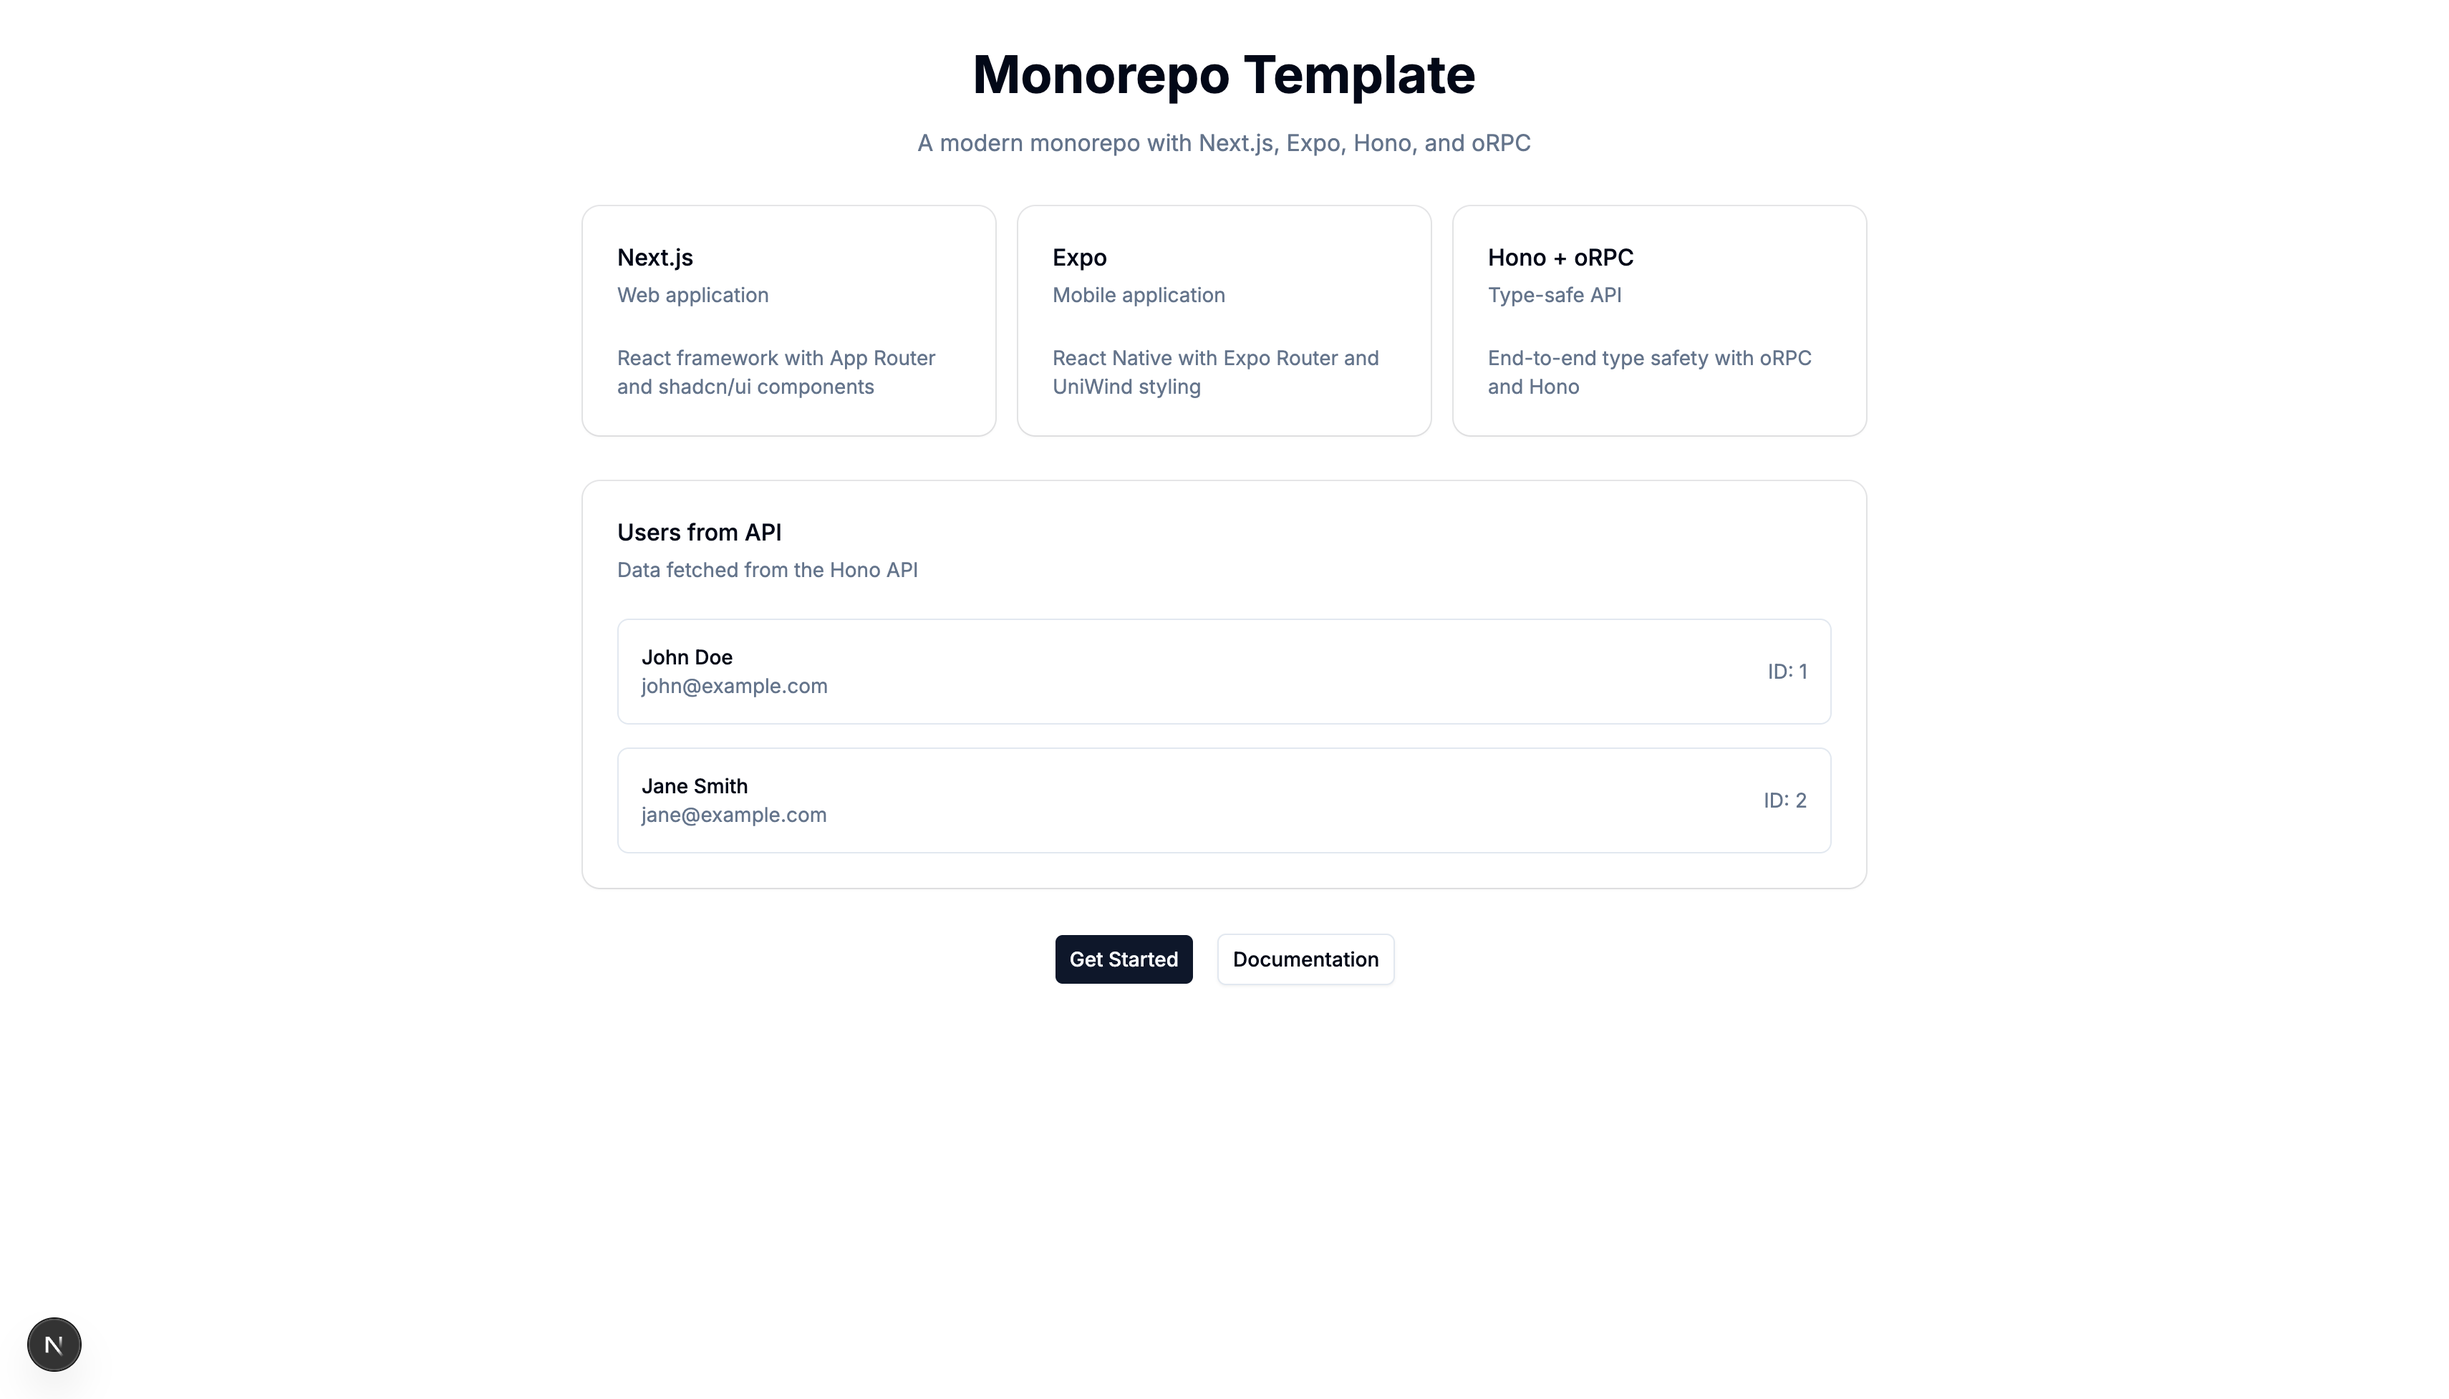
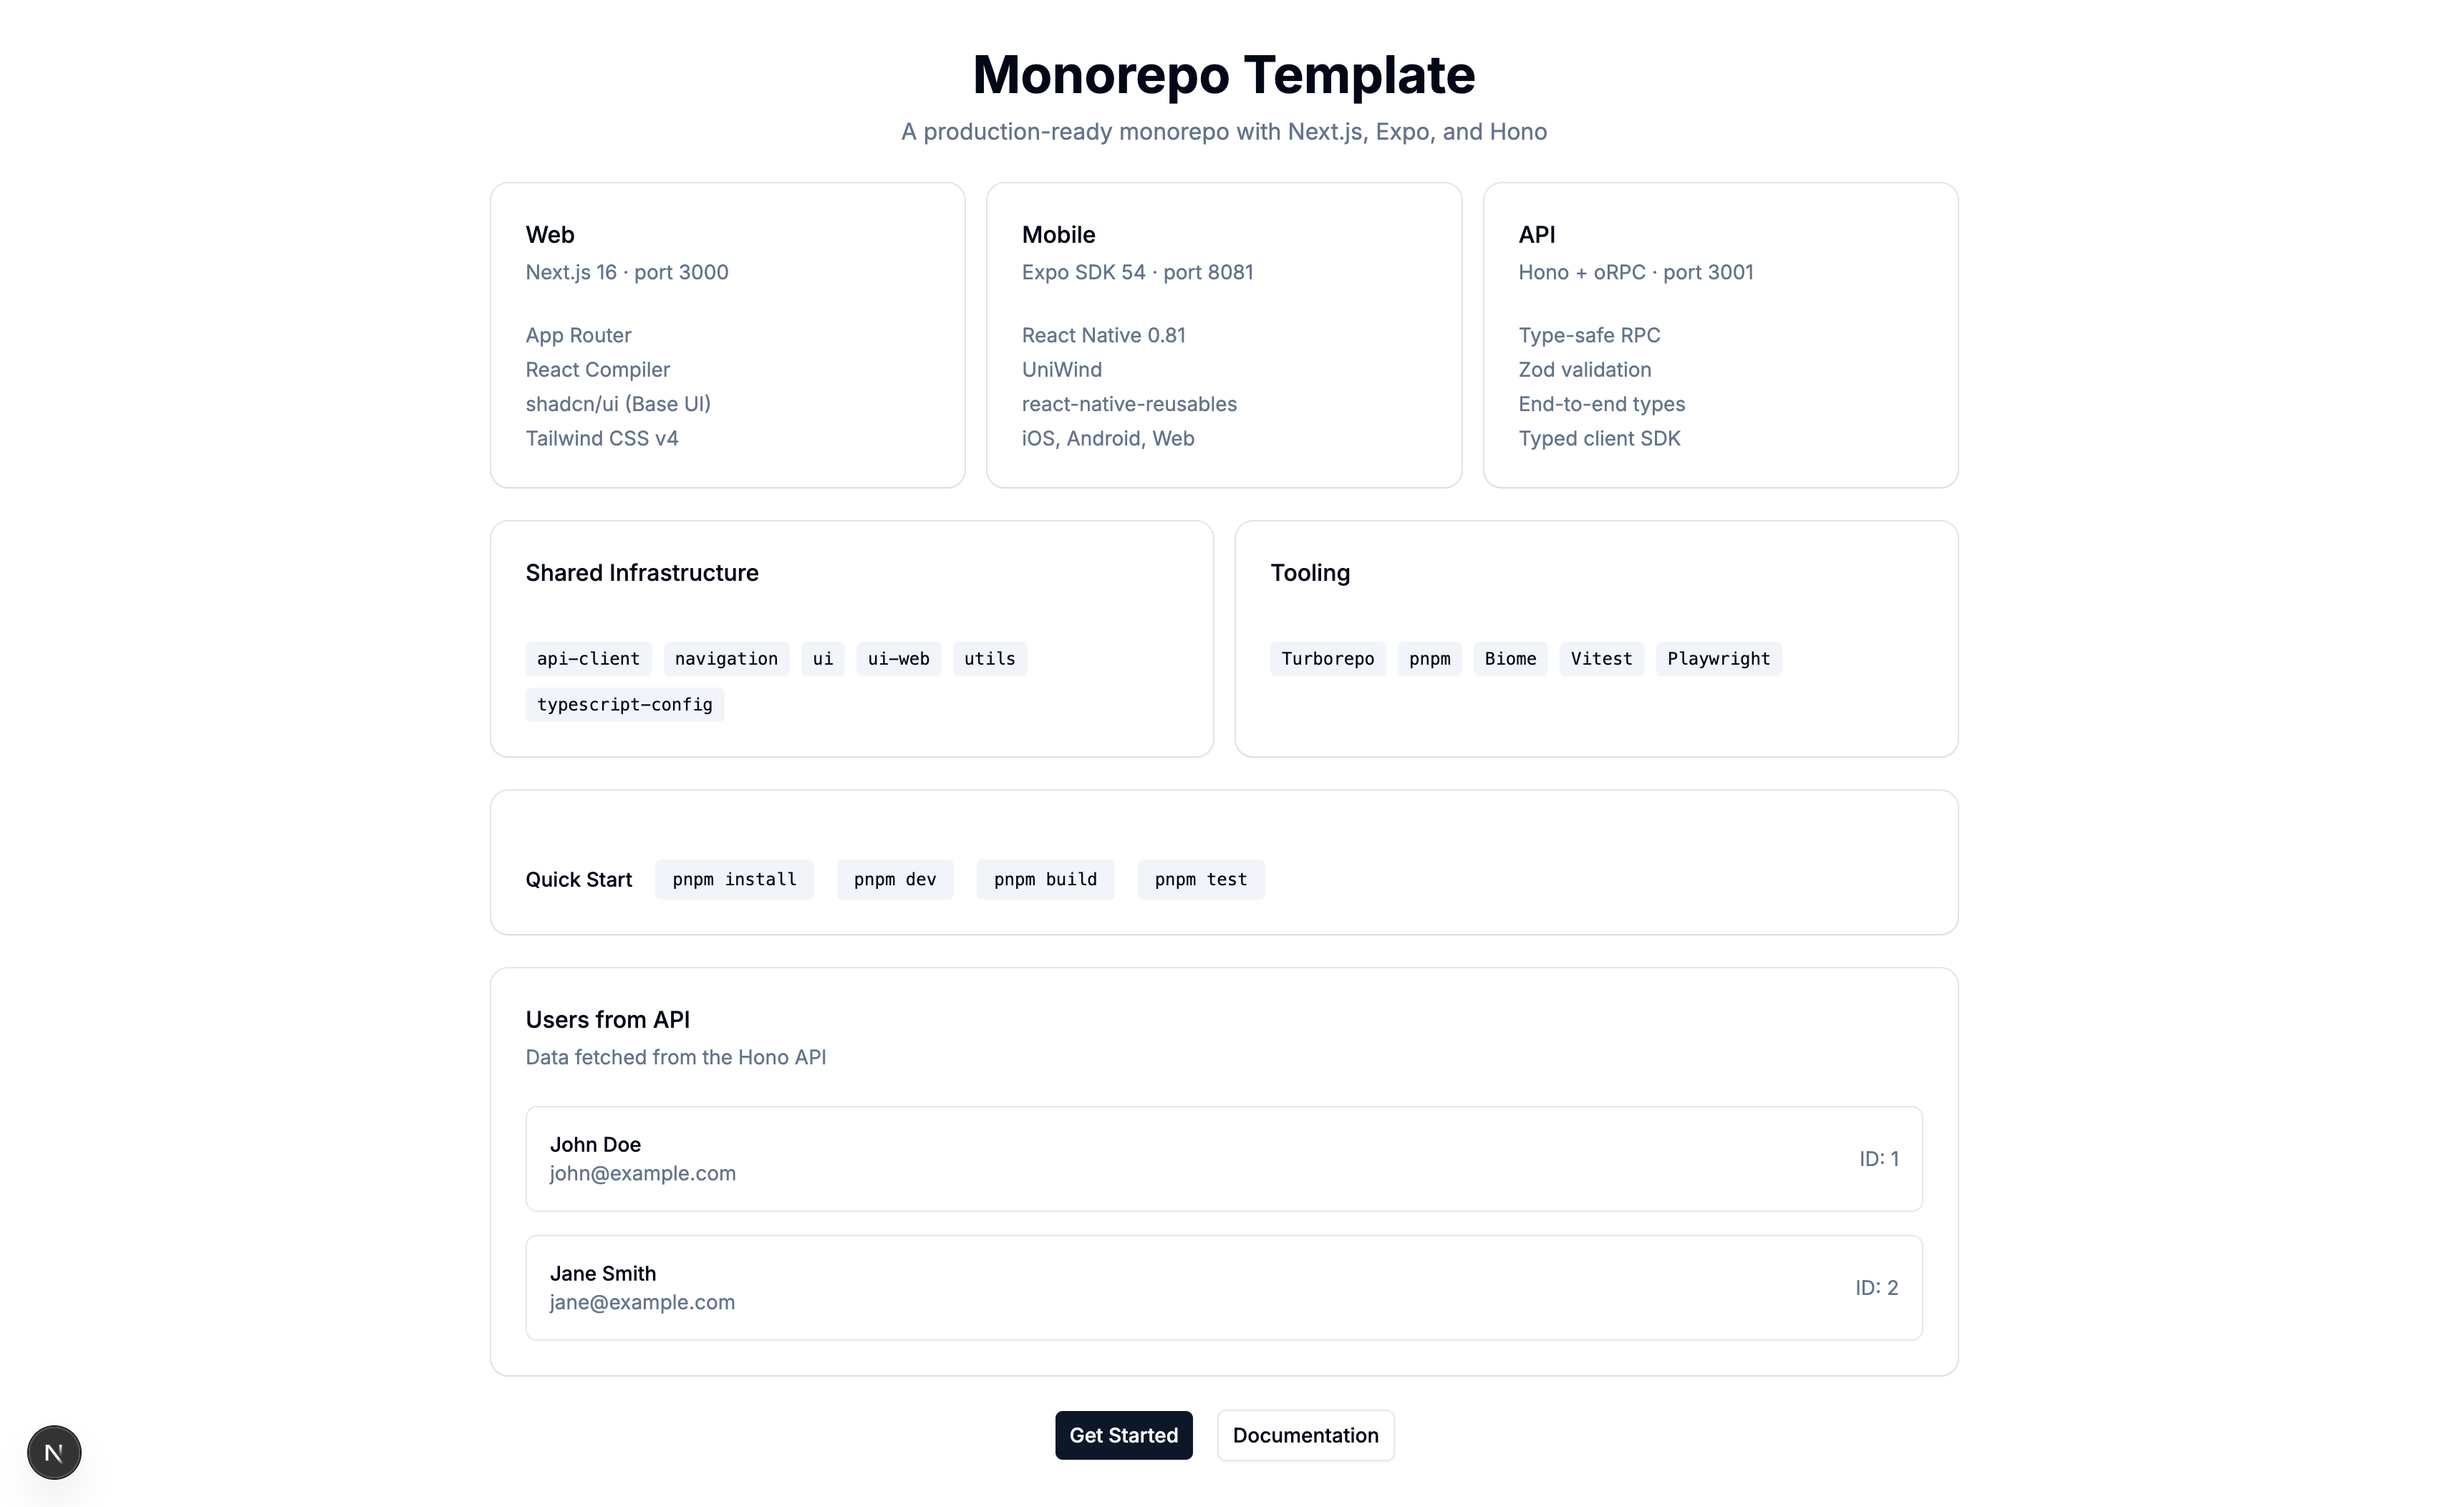
feat(web): replace feature cards with detailed app overview layout
Add detailed Web/Mobile/API cards with tech stack bullets, shared
infrastructure and tooling badge rows, and a quick start command bar.
Designed to fit above the fold for repository screenshot use.

diff --git a/apps/web/app/page.tsx b/apps/web/app/page.tsx
@@ -5,51 +5,105 @@ import { Card, CardContent, CardDescription, CardHeader, CardTitle } from "@infr
 export default function Home() {
   return (
     <main className="min-h-screen p-8">
-      <div className="max-w-4xl mx-auto space-y-8">
-        <div className="text-center space-y-4">
+      <div className="max-w-5xl mx-auto space-y-6">
+        <div className="text-center space-y-2">
           <h1 className="text-4xl font-bold">Monorepo Template</h1>
           <p className="text-muted-foreground">
-            A modern monorepo with Next.js, Expo, Hono, and oRPC
+            A production-ready monorepo with Next.js, Expo, and Hono
           </p>
         </div>
 
         <div className="grid gap-4 md:grid-cols-3">
           <Card>
             <CardHeader>
-              <CardTitle>Next.js</CardTitle>
-              <CardDescription>Web application</CardDescription>
+              <CardTitle>Web</CardTitle>
+              <CardDescription>Next.js 16 &middot; port 3000</CardDescription>
             </CardHeader>
             <CardContent>
-              <p className="text-sm text-muted-foreground">
-                React framework with App Router and shadcn/ui components
-              </p>
+              <ul className="text-sm text-muted-foreground space-y-1">
+                <li>App Router</li>
+                <li>React Compiler</li>
+                <li>shadcn/ui (Base UI)</li>
+                <li>Tailwind CSS v4</li>
+              </ul>
             </CardContent>
           </Card>
 
           <Card>
             <CardHeader>
-              <CardTitle>Expo</CardTitle>
-              <CardDescription>Mobile application</CardDescription>
+              <CardTitle>Mobile</CardTitle>
+              <CardDescription>Expo SDK 54 &middot; port 8081</CardDescription>
             </CardHeader>
             <CardContent>
-              <p className="text-sm text-muted-foreground">
-                React Native with Expo Router and UniWind styling
-              </p>
+              <ul className="text-sm text-muted-foreground space-y-1">
+                <li>React Native 0.81</li>
+                <li>UniWind</li>
+                <li>react-native-reusables</li>
+                <li>iOS, Android, Web</li>
+              </ul>
             </CardContent>
           </Card>
 
           <Card>
             <CardHeader>
-              <CardTitle>Hono + oRPC</CardTitle>
-              <CardDescription>Type-safe API</CardDescription>
+              <CardTitle>API</CardTitle>
+              <CardDescription>Hono + oRPC &middot; port 3001</CardDescription>
             </CardHeader>
             <CardContent>
-              <p className="text-sm text-muted-foreground">
-                End-to-end type safety with oRPC and Hono
-              </p>
+              <ul className="text-sm text-muted-foreground space-y-1">
+                <li>Type-safe RPC</li>
+                <li>Zod validation</li>
+                <li>End-to-end types</li>
+                <li>Typed client SDK</li>
+              </ul>
             </CardContent>
           </Card>
         </div>
+
+        <div className="grid gap-4 md:grid-cols-2">
+          <Card>
+            <CardHeader className="pb-3">
+              <CardTitle className="text-base">Shared Infrastructure</CardTitle>
+            </CardHeader>
+            <CardContent>
+              <div className="flex flex-wrap gap-2 text-xs">
+                <code className="bg-muted px-2 py-1 rounded">api-client</code>
+                <code className="bg-muted px-2 py-1 rounded">navigation</code>
+                <code className="bg-muted px-2 py-1 rounded">ui</code>
+                <code className="bg-muted px-2 py-1 rounded">ui-web</code>
+                <code className="bg-muted px-2 py-1 rounded">utils</code>
+                <code className="bg-muted px-2 py-1 rounded">typescript-config</code>
+              </div>
+            </CardContent>
+          </Card>
+
+          <Card>
+            <CardHeader className="pb-3">
+              <CardTitle className="text-base">Tooling</CardTitle>
+            </CardHeader>
+            <CardContent>
+              <div className="flex flex-wrap gap-2 text-xs">
+                <code className="bg-muted px-2 py-1 rounded">Turborepo</code>
+                <code className="bg-muted px-2 py-1 rounded">pnpm</code>
+                <code className="bg-muted px-2 py-1 rounded">Biome</code>
+                <code className="bg-muted px-2 py-1 rounded">Vitest</code>
+                <code className="bg-muted px-2 py-1 rounded">Playwright</code>
+              </div>
+            </CardContent>
+          </Card>
+        </div>
+
+        <Card>
+          <CardContent className="pt-6">
+            <div className="flex flex-wrap items-center gap-4 text-sm">
+              <span className="font-medium">Quick Start</span>
+              <code className="bg-muted px-3 py-1.5 rounded text-xs">pnpm install</code>
+              <code className="bg-muted px-3 py-1.5 rounded text-xs">pnpm dev</code>
+              <code className="bg-muted px-3 py-1.5 rounded text-xs">pnpm build</code>
+              <code className="bg-muted px-3 py-1.5 rounded text-xs">pnpm test</code>
+            </div>
+          </CardContent>
+        </Card>
 
         <Card>
           <CardHeader>

diff --git a/.claude/CLAUDE.md b/.claude/CLAUDE.md
@@ -26,6 +26,7 @@ pnpm lint:fix         # Auto-fix linting issues
 pnpm format           # Format via Biome + sort package.json
 pnpm pre-commit       # Install, format, and test changed files
 pnpm reset            # Clear node_modules, .next, dist, .turbo caches
+pnpm gencode          # Run code generation tasks via Turborepo
 
 # Run a single package
 pnpm --filter @repo/web dev
@@ -137,6 +138,8 @@ react: "19.1.0"
 GitHub Actions (`.github/workflows/ci.yml`) runs on every PR:
 1. `biome ci` — lint + format check
 2. `pnpm test:changed` — tests for changed packages only
+
+**Note**: CI does not run `typecheck` — run `pnpm typecheck` locally before pushing.
 
 **Dependabot** (`.github/dependabot.yml`) runs weekly scans for npm and GitHub Actions updates.
 
